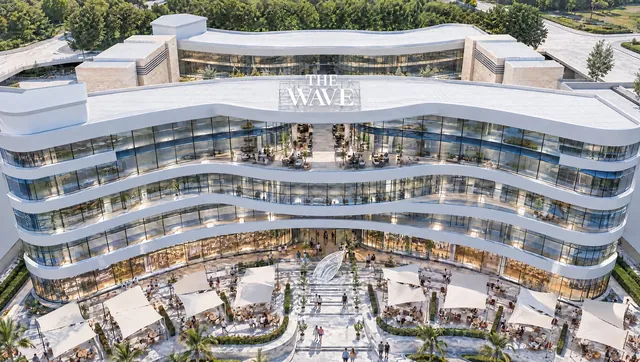
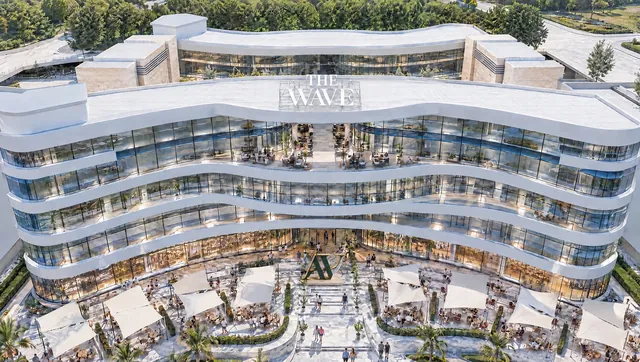
Only real views of the mall; the A-V mark as the plaza sculpture
- Remove the sunset-to-night section from the home page.
- Replace the leaf statue with the A-V ligature in forest-green bronze in
  every view of the plaza, plus a close-up of the sculpture.
- New eye-level shopfronts view; drop every image that was not the
  building itself (court, abstract ribbon, boutique, cafe, steps, lounge).
- Journal covers: the mark sculpture and the corner at dusk.

Claude-Session: https://claude.ai/code/session_0142AMHowNKcEFnnjpkxJwpv

diff --git a/wave-mall-app/src/content.js b/wave-mall-app/src/content.js
@@ -60,8 +60,8 @@ const content = {
       ],
       scenes: [
         { img: 'shopfronts', name: 'Shop', text: 'Sixteen shopfronts on the plaza, each with its own terrace.' },
-        { img: 'lounge', name: 'Dine', text: 'The lounge terrace, looking over the plaza at sunset.' },
-        { img: 'sculpture', name: 'Stay', text: 'The leaf on the stair, at the heart of the plaza.' },
+        { img: 'plaza', name: 'Dine', text: 'Cafés under the sails, the stair lit up at dusk.' },
+        { img: 'sculpture', name: 'Stay', text: 'Our mark in bronze, at the heart of the plaza stair.' },
       ],
       directory: { kicker: 'Floor by floor', title: 'From the parking to the roof.', more: 'Explore the building' },
       place: { kicker: 'North 90, First Sector', text: 'Between the two Teseen roads. Banks, offices and two hospitals next door; the monorail a short walk away.', more: 'Plan your visit' },
@@ -75,7 +75,7 @@ const content = {
       hero: { a: 'Two wings,', b: 'one court.' },
       intro: 'The plan is an hourglass: two wings that curve towards each other around an open court. Every floor is edged by a ribbon balcony that follows the curve.',
       gallery: [
-        { img: 'court', cap: 'Inside the court' },
+        { img: 'sculpture', cap: 'Our mark in bronze on the plaza stair' },
         { img: 'tower', cap: 'The rooftop sign at night' },
         { img: 'aerial', cap: 'The Wave from above' },
         { img: 'north90', cap: 'The full length of North 90 at dusk' },
@@ -90,8 +90,8 @@ const content = {
       hero: { a: 'Slow mornings,', b: 'golden evenings.' },
       chapters: [
         { img: 'axis', time: '09:00', name: 'Morning', text: 'Coffee under the sails on the plaza, before the city gets loud.' },
-        { img: 'boutique', time: '12:00', name: 'Midday', text: 'Fashion, beauty and the things you keep, in rooms built around stone and light.' },
-        { img: 'lounge', time: '17:00', name: 'Golden hour', text: 'The plaza steps face west. This is the hour the building was drawn for.' },
+        { img: 'shopfronts', time: '12:00', name: 'Midday', text: 'Fashion, beauty and the things you keep, in rooms built around stone and light.' },
+        { img: 'golden', time: '17:00', name: 'Golden hour', text: 'The plaza steps face west. This is the hour the building was drawn for.' },
         { img: 'aerialnight', time: '21:00', name: 'Evening', text: 'Dinner on the terraces while the ribbons glow.' },
       ],
       note: 'The opening line-up will be announced in the Journal.',
@@ -190,8 +190,8 @@ const content = {
       ],
       scenes: [
         { img: 'shopfronts', name: 'تسوّق', text: 'ستة عشر محلاً على الساحة، لكل منها تراسه.' },
-        { img: 'lounge', name: 'تناول', text: 'تراس الاستراحة المطل على الساحة وقت الغروب.' },
-        { img: 'sculpture', name: 'ابقَ', text: 'الورقة على الدرج، في قلب الساحة.' },
+        { img: 'plaza', name: 'تناول', text: 'مقاهٍ تحت المظلات، والدرج مضاء عند الغسق.' },
+        { img: 'sculpture', name: 'ابقَ', text: 'شعارنا من البرونز، في قلب درج الساحة.' },
       ],
       directory: { kicker: 'طابقاً طابقاً', title: 'من المواقف إلى السطح.', more: 'استكشف المبنى' },
       place: { kicker: 'التسعين الشمالي، القطاع الأول', text: 'بين طريقي التسعين. بنوك ومكاتب ومستشفيان بجوارنا، والمونوريل على بُعد خطوات.', more: 'خطط لزيارتك' },
@@ -205,7 +205,7 @@ const content = {
       hero: { a: 'جناحان،', b: 'وساحة واحدة.' },
       intro: 'المخطط على شكل ساعة رملية: جناحان ينحنيان نحو بعضهما حول ساحة مفتوحة. وكل طابق تحده شرفة شريطية تتبع المنحنى.',
       gallery: [
-        { img: 'court', cap: 'داخل الساحة' },
+        { img: 'sculpture', cap: 'شعارنا من البرونز على درج الساحة' },
         { img: 'tower', cap: 'اللافتة على السطح ليلاً' },
         { img: 'aerial', cap: 'ذا ويف من الأعلى' },
         { img: 'north90', cap: 'الواجهة على التسعين الشمالي عند الغسق' },
@@ -220,8 +220,8 @@ const content = {
       hero: { a: 'صباحات هادئة،', b: 'وأمسيات ذهبية.' },
       chapters: [
         { img: 'axis', time: '09:00', name: 'الصباح', text: 'قهوة تحت المظلات في الساحة، قبل أن تعلو المدينة.' },
-        { img: 'boutique', time: '12:00', name: 'الظهيرة', text: 'الموضة والجمال والأشياء التي تحتفظ بها، في غرف بُنيت حول الحجر والضوء.' },
-        { img: 'lounge', time: '17:00', name: 'الساعة الذهبية', text: 'درج الساحة يواجه الغرب. هذه هي الساعة التي رُسم المبنى من أجلها.' },
+        { img: 'shopfronts', time: '12:00', name: 'الظهيرة', text: 'الموضة والجمال والأشياء التي تحتفظ بها، في غرف بُنيت حول الحجر والضوء.' },
+        { img: 'golden', time: '17:00', name: 'الساعة الذهبية', text: 'درج الساحة يواجه الغرب. هذه هي الساعة التي رُسم المبنى من أجلها.' },
         { img: 'aerialnight', time: '21:00', name: 'المساء', text: 'عشاء على التراسات بينما تتوهج الشرائط.' },
       ],
       note: 'تُعلن قائمة الافتتاح في المدونة.',

diff --git a/wave-mall-app/src/pages.js b/wave-mall-app/src/pages.js
@@ -87,15 +87,6 @@ function home(lang, ctx) {
     .join('');
   const latest = journal.sorted().slice(0, 2);
 
-  const lights = h.lights.items
-    .map(
-      (it, i) => `<figure class="lights__slide" data-light="${i}">${picture(it.img, `${c.brand} · ${it.name}`, { eager: i === 0, sizes: '100vw' })}</figure>`,
-    )
-    .join('');
-  const lightsText = h.lights.items
-    .map((it, i) => `<li data-light-text="${i}" ${i ? '' : 'class="is-on"'}><span class="lights__time">${esc(it.time)}</span><span class="lights__name">${esc(it.name)}</span><span class="lights__text">${esc(it.text)}</span></li>`)
-    .join('');
-
   const body = `
 <section class="hero" data-hero>
   <div class="wrap hero__head">
@@ -108,16 +99,7 @@ function home(lang, ctx) {
   </div>
 </section>
 
-<section class="lights" data-lights>
-  <div class="lights__stage">
-    <div class="lights__slides">${lights}</div>
-    <div class="lights__ui">
-      <p class="label">${esc(h.lights.kicker)}</p>
-      <ol class="lights__list">${lightsText}</ol>
-      <div class="lights__bar" aria-hidden="true"><i data-lights-bar></i></div>
-    </div>
-  </div>
-</section>
+
 
 <section class="statement" id="statement"><div class="wrap"><p class="statement__text" data-rise>${esc(h.statement)}</p></div></section>
 
@@ -200,7 +182,7 @@ ${opener(c.nav[2][1], e.hero, null)}
 <section class="hours"><div class="wrap">${chapters}</div></section>
 <section class="list"><div class="wrap list__grid">${label(e.list.title)}<ol class="list__items">${list}</ol><p class="label list__note">${esc(e.note)}</p></div></section>`;
   const jsonld = [crumbsLd([[p(lang, '/'), c.crumbs.home], [p(lang, '/experience/'), c.nav[2][1]]], base(ctx))];
-  return layout({ lang, pathname: p(lang, '/experience/'), title: e.title, description: e.description, body, image: null, seo: { image: 'terrace', jsonld }, ...ctx });
+  return layout({ lang, pathname: p(lang, '/experience/'), title: e.title, description: e.description, body, image: null, seo: { image: 'axis', jsonld }, ...ctx });
 }
 
 /* ---------- leasing ---------- */
@@ -253,7 +235,7 @@ ${opener(c.nav[3][1], L.hero, L.intro)}
   </div>
 </section>`;
   const jsonld = [crumbsLd([[p(lang, '/'), c.crumbs.home], [p(lang, '/leasing/'), c.nav[3][1]]], base(ctx))];
-  return layout({ lang, pathname: p(lang, '/leasing/'), title: L.title, description: L.description, body, seo: { image: 'boutique', jsonld }, ...ctx });
+  return layout({ lang, pathname: p(lang, '/leasing/'), title: L.title, description: L.description, body, seo: { image: 'shopfronts', jsonld }, ...ctx });
 }
 
 /* ---------- visit ---------- */

diff --git a/wave-mall-app/src/journal.js b/wave-mall-app/src/journal.js
@@ -7,7 +7,7 @@ const posts = [
   {
     slug: 'the-story-behind-our-mark',
     date: '2026-10-20',
-    img: 'ribbon',
+    img: 'sculpture',
     tag: { en: 'Identity', ar: 'الهوية' },
     en: {
       title: 'The story behind our mark',
@@ -53,7 +53,7 @@ Repeat the A–V ligature, offset every second row, and you get a pattern that r
   {
     slug: 'designed-to-flow',
     date: '2026-10-12',
-    img: 'court',
+    img: 'cornerdusk',
     tag: { en: 'Architecture', ar: 'العمارة' },
     en: {
       title: 'Designed to flow',
@@ -197,7 +197,7 @@ The East Nile monorail runs along South 90, with the Air Force Hospital station 
   {
     slug: 'the-autumn-edit',
     date: '2026-09-18',
-    img: 'steps',
+    img: 'shopfronts',
     tag: { en: 'Style', ar: 'الأناقة' },
     en: {
       title: 'The Autumn Edit, Vol. 01',

diff --git a/wave-mall-app/scripts/optimize-images.py b/wave-mall-app/scripts/optimize-images.py
@@ -22,24 +22,15 @@ IMAGES = {
     "morning": (SRC / "hf/morning.webp", False),
     "golden": (SRC / "hf/golden.webp", False),
     "plaza": (SRC / "hf/plaza.webp", False),
-    "corner": (SRC / "hf/corner-day.webp", False),
     "tower": (SRC / "hf/night-vertical.webp", False),
-    "court": (SRC / "hf/court.webp", False),
     "aerial": (SRC / "hf/aerial-day.webp", False),
     "aerialnight": (SRC / "hf/aerial-night.webp", False),
     "cornerdusk": (SRC / "hf/corner-dusk.webp", False),
     "axis": (SRC / "hf/axis.webp", False),
-    "stone": (SRC / "hf/stone.webp", False),
-    "lounge": (SRC / "hf/lounge.webp", False),
     "north90": (SRC / "hf/north90.webp", False),
     "sculpture": (SRC / "hf/sculpture.webp", False),
     "shopfronts": (SRC / "hf/shopfronts.webp", False),
     "map": (SRC / "map.webp", "map"),
-    # details and life on the plaza
-    "ribbon": (SRC / "hf/ribbon.webp", False),
-    "boutique": (SRC / "hf/boutique.webp", False),
-    "steps": (SRC / "hf/steps.webp", False),
-    "terrace": (POSTS / "terrace-cafe.png", False),
 }
 WIDTHS = (640, 1080, 1600, 2400)
 

diff --git a/wave-mall-app/assets-src/higgsfield-shots.md b/wave-mall-app/assets-src/higgsfield-shots.md
@@ -19,3 +19,9 @@ Model: gpt_image_2_5, quality high, 2k.
 aerial-day, aerial-night (sign on the FRONT wing roof above the open centre), corner-dusk,
 axis (up the central stair), stone (portal block), lounge (front-wing terrace), north90
 (full length at dusk), sculpture (the leaf on the stair), shopfronts (plaza terraces).
+
+## Round 3 (25 Oct 2026)
+The leaf sculpture is replaced everywhere by the A-V ligature of the mark in forest-green
+patinated bronze on a travertine plinth on the stair landing (assets-src/ligature.jpg,
+media c1ad7249-7f40-4978-8a4b-105f10bbacc8). Images that were not the building itself
+(court, abstract ribbon, boutique, cafe, steps, lounge) are removed from the site.
